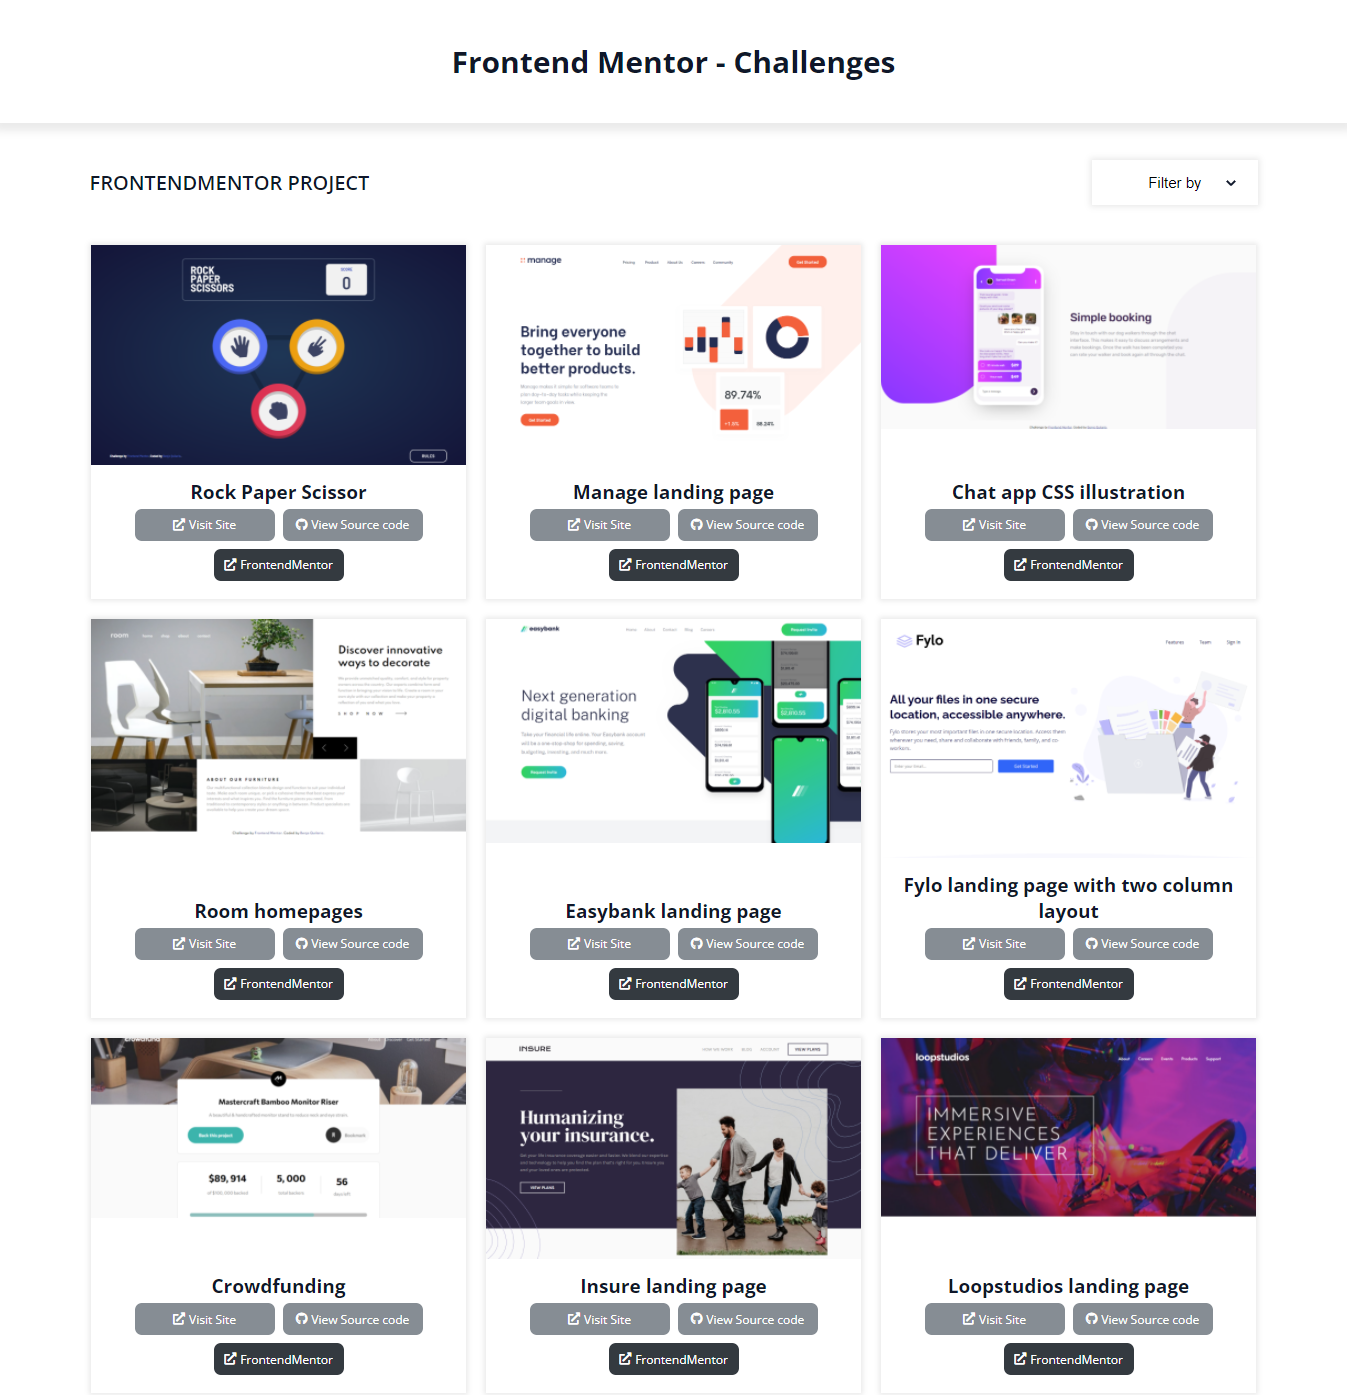
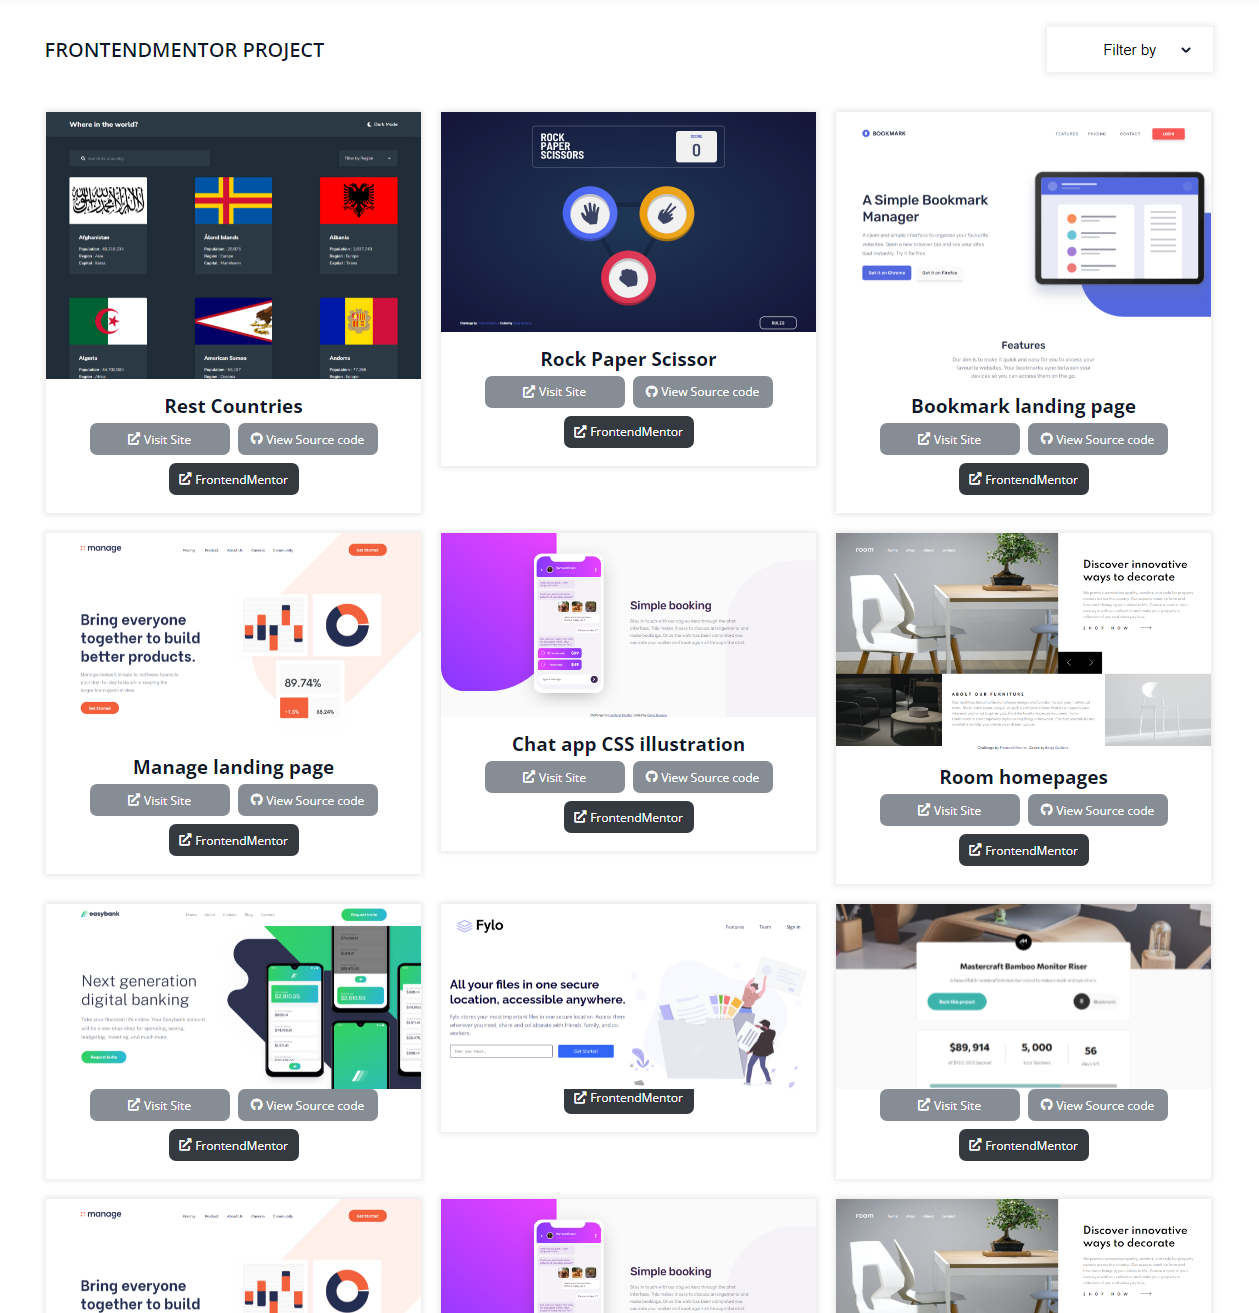
Add: Projects

diff --git a/index.html b/index.html
@@ -67,7 +67,56 @@
                <li class="filter__list" data-category="advance">
                   <article class="challenge">
                      <div class="challenge__image">
-                        <img src="./src/img/rockpaperscissor.png" alt="" />
+                        <img
+                           src="./src/img/countries.png"
+                           alt="rest countries"
+                        />
+                     </div>
+                     <div class="challenge__links">
+                        <h3>Rest Countries</h3>
+                        <div>
+                           <a
+                              href="https://countries-benjo.netlify.app/"
+                              class="challenge__code"
+                              aria-label="Visit Live Site"
+                              target="_blank"
+                           >
+                              <i
+                                 class="fas fa-external-link-alt icon__project"
+                              ></i>
+                              Visit Site</a
+                           >
+                           <a
+                              href="https://github.com/benjoquilario/FEM-rest-countries"
+                              class="challenge__code"
+                              aria-label="View source code"
+                              target="_blank"
+                           >
+                              <i class="fab fa-github icon__project"></i> View
+                              Source code
+                           </a>
+                           <a
+                              href="https://www.frontendmentor.io/solutions/rock-paper-scissorhtml-cssscss-vanilla-javascript-D6z6HQ9UL"
+                              class="challenge__view"
+                              aria-label="Visit Frontendmentor page"
+                              target="_blank"
+                           >
+                              <i
+                                 class="fas fa-external-link-alt icon__project"
+                              ></i>
+                              FrontendMentor</a
+                           >
+                        </div>
+                     </div>
+                  </article>
+               </li>
+               <li class="filter__list" data-category="advance">
+                  <article class="challenge">
+                     <div class="challenge__image">
+                        <img
+                           src="./src/img/rockpaperscissor.png"
+                           alt="rock paper scissor"
+                        />
                      </div>
                      <div class="challenge__links">
                         <h3>Rock Paper Scissor</h3>
@@ -110,7 +159,7 @@
                <li class="filter__list" data-category="intermediate">
                   <article class="challenge">
                      <div class="challenge__image">
-                        <img src="./src/img/bookmark.png" alt="" />
+                        <img src="./src/img/bookmark.png" alt="bookmark" />
                      </div>
                      <div class="challenge__links">
                         <h3>Bookmark landing page</h3>
@@ -153,7 +202,7 @@
                <li class="filter__list" data-category="intermediate">
                   <article class="challenge">
                      <div class="challenge__image">
-                        <img src="./src/img/manage.png" alt="" />
+                        <img src="./src/img/manage.png" alt="manage" />
                      </div>
                      <div class="challenge__links">
                         <h3>Manage landing page</h3>
